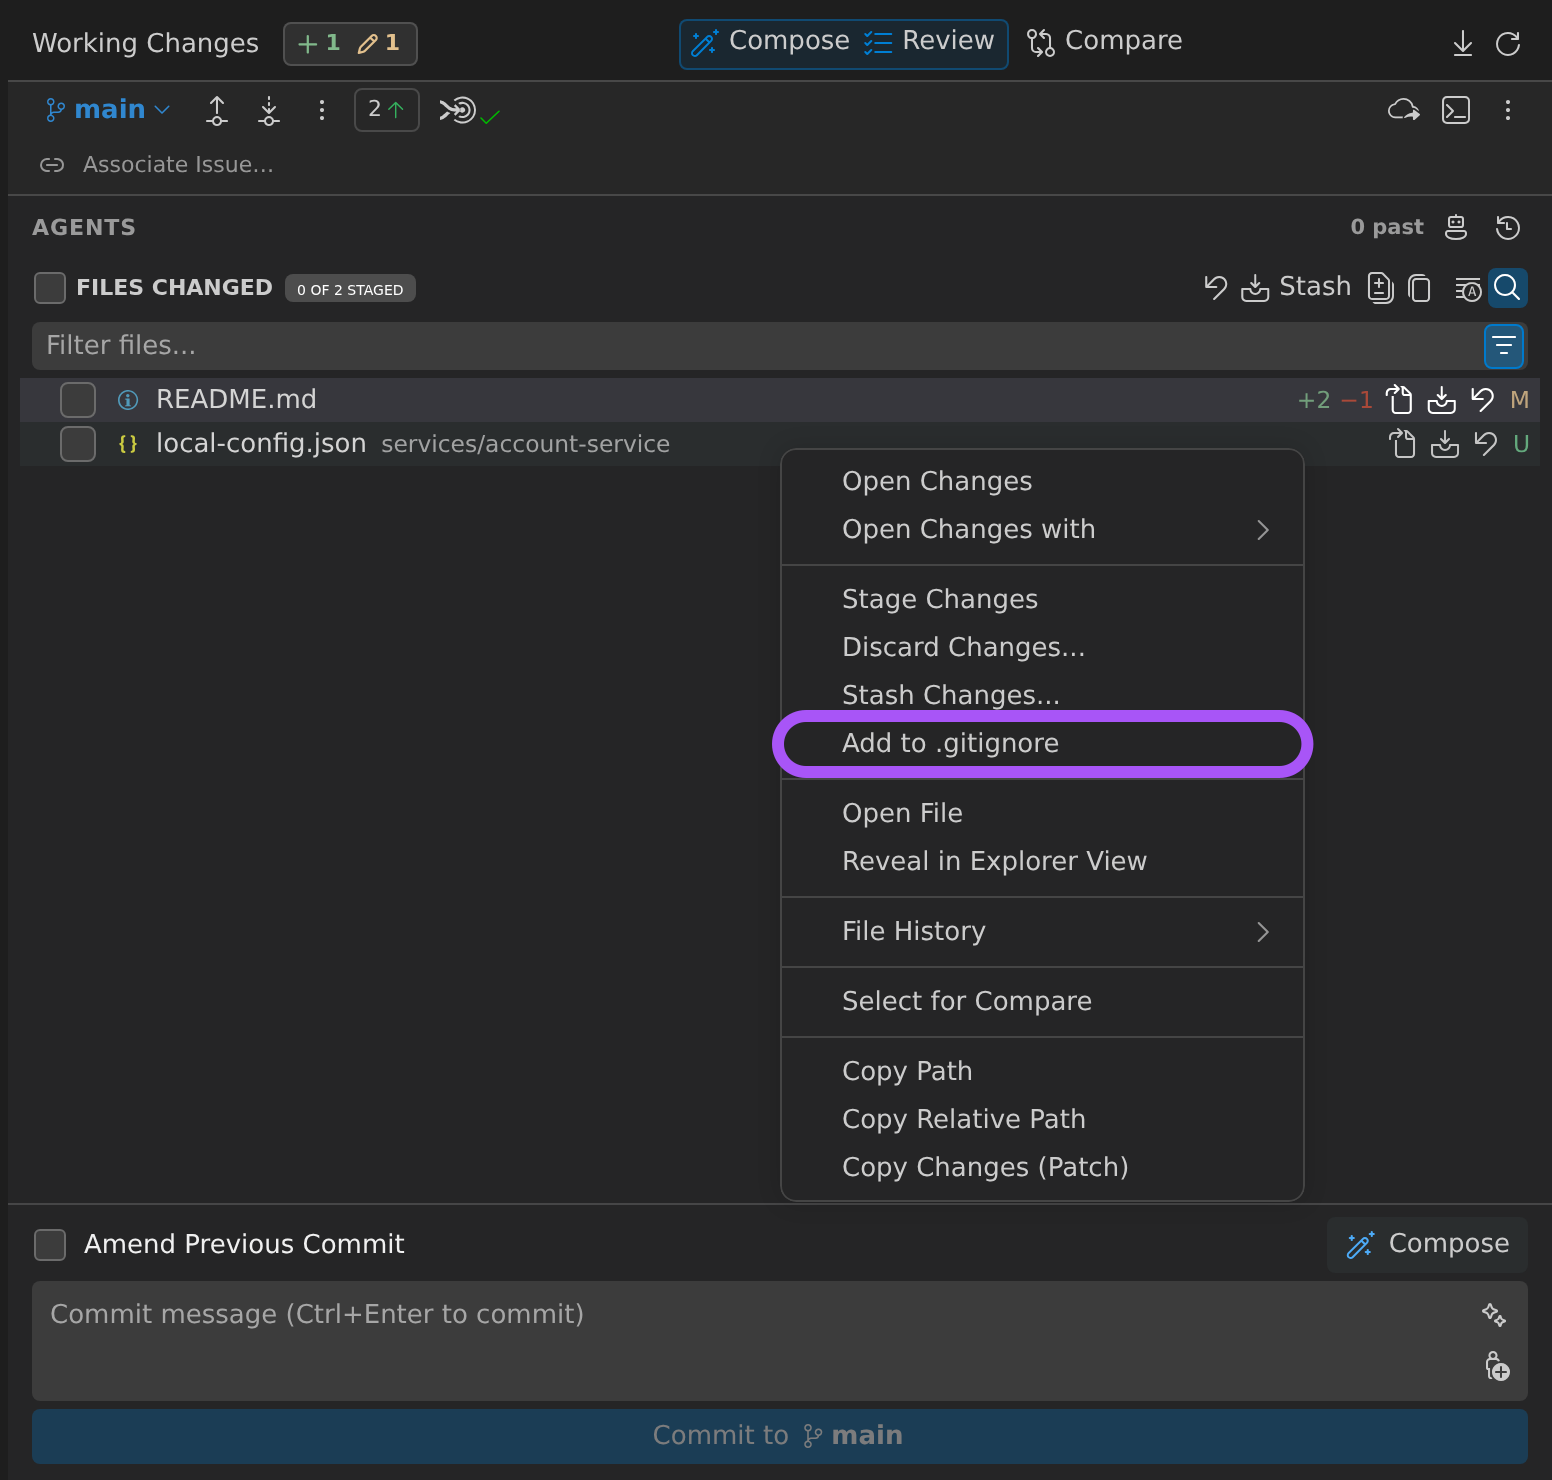
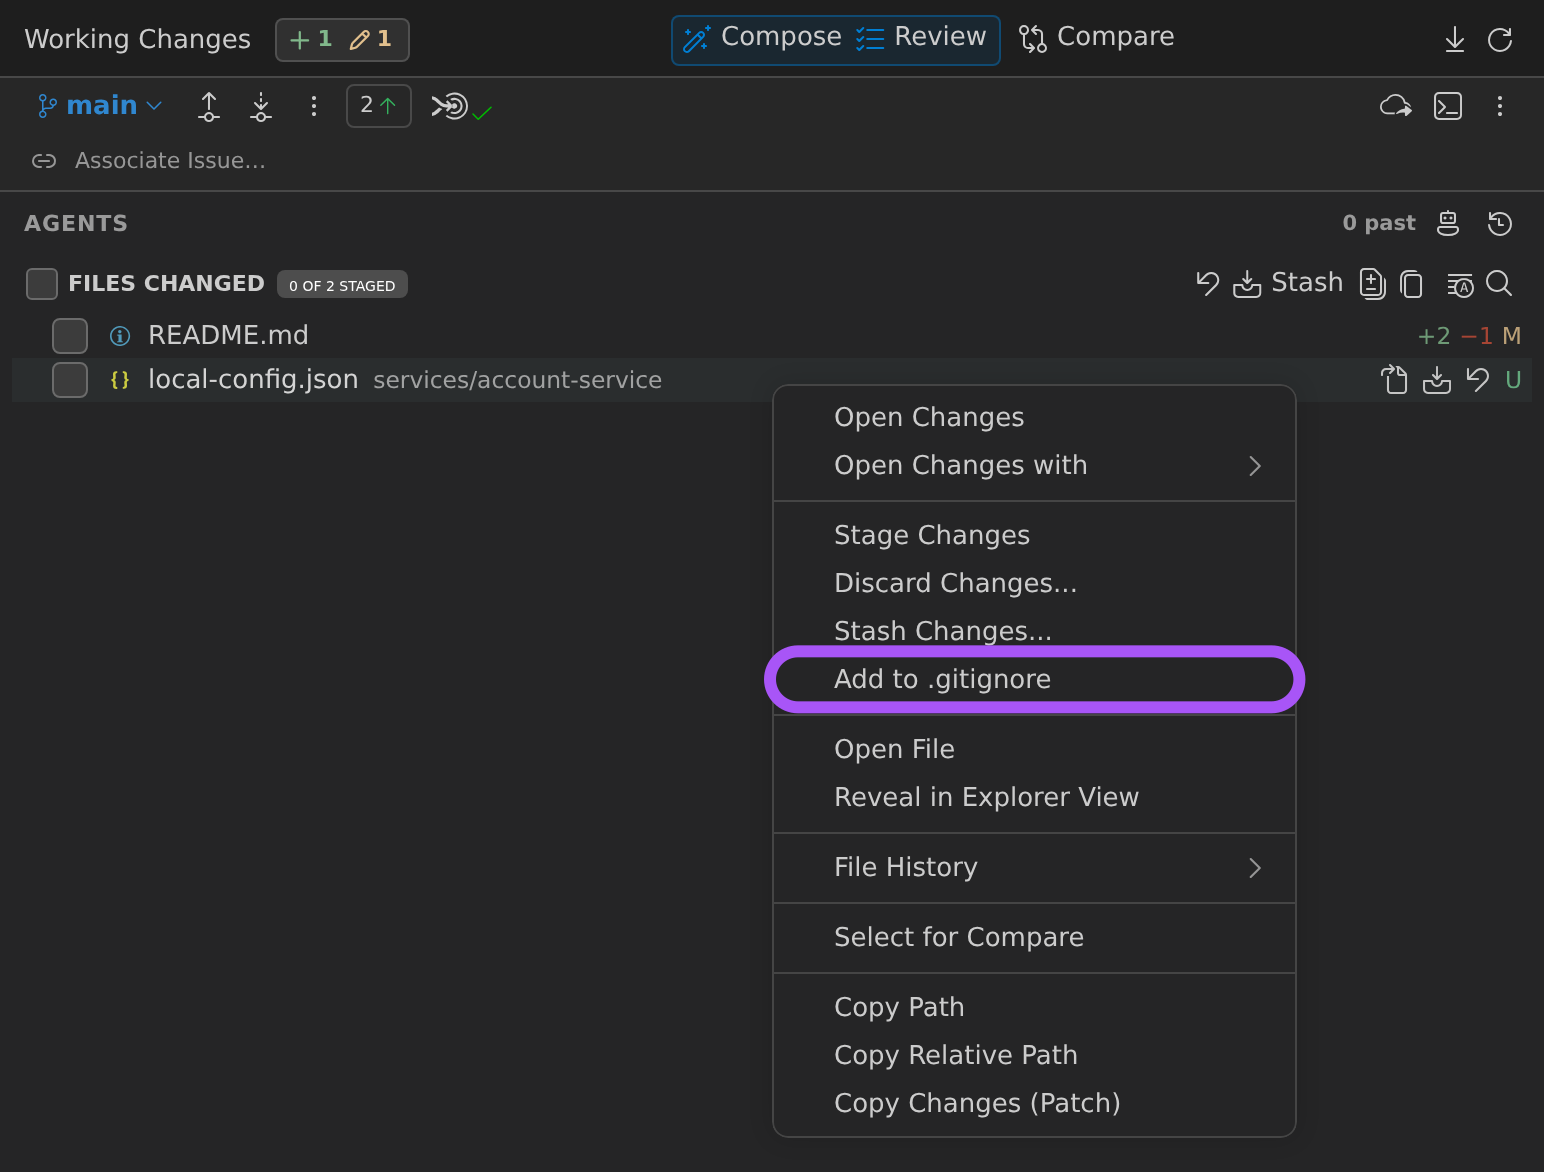
GitLens: Jira connection steps and screenshot updates
- Jira steps (GL-Integrations, gitlens-features): the Cloud Integrations figure sits under step 2, which explains the Connect and Connected/Manage card states; the card is named Jira.
- Cloud Integrations screenshot: settings navigation labels readable; alt lists connected and unconnected providers.
- Add to .gitignore screenshot: only the untracked file is highlighted, the file filter is closed, framed on the details panel.
- Alt text: Send Feedback dialog, past sessions, Agent Kanban, account menu Integrations row.

diff --git a/gitlens/gitlens-features.md b/gitlens/gitlens-features.md
@@ -1440,7 +1440,7 @@ To connect an integration:
 3. Alternatively, select the account button (your avatar and plan) in the Commit Graph header, then select the **Integrations** row (or **Set up integrations** if none are connected) to open the integrations settings in GitLens Settings.
 
 <figure>
-  <img src="/wp-content/uploads/gl-connect-remote-integration-01-v4@2x.png" srcset="/wp-content/uploads/gl-connect-remote-integration-01-v4@2x.png" alt="The Commit Graph header's account menu open with its Integrations row ringed; the row shows the connected providers and opens GitLens Settings > Integrations." class="help-center-img img-bordered">
+  <img src="/wp-content/uploads/gl-connect-remote-integration-01-v4@2x.png" srcset="/wp-content/uploads/gl-connect-remote-integration-01-v4@2x.png" alt="The Commit Graph header's account button with its menu open and the Integrations row ringed, a row of provider icons that opens GitLens Settings > Integrations." class="help-center-img img-bordered">
   <figcaption style="text-align: center; color: #888;">Open your integrations from the Commit Graph account menu</figcaption>
 </figure>
 
@@ -1520,14 +1520,15 @@ The Jira Integration, connected through your GitKraken Account, enables Jira [Au
 To connect the integration:
 
 1. Open the GitLens Settings editor (run _GitLens: Open Settings_ from the Command Palette).
-2. Select **Cloud Integrations** under **Integrations** in the navigation rail.
-3. Choose **Jira Cloud**, and authorize access to your Atlassian Account.
-4. Alternatively, visit your [Integration Settings](https://gitkraken.dev/settings/integrations?source=help_center&product=gitlens) in a browser.
+2. Select **Cloud Integrations** under **Integrations** in the navigation rail. Each provider has a card: a provider you have not connected shows **Connect**, and a connected one shows **Connected** and **Manage**.
 
 <figure>
-  <img src="/wp-content/uploads/gl-cloud-integrations-01-v4@2x.png" alt="GitLens Settings Cloud Integrations page showing provider connection cards for GitHub, GitLab, Azure DevOps, Bitbucket, Jira, and Linear" class="help-center-img img-bordered">
-  <figcaption style="text-align: center; color: #888;">Cloud Integrations category in the GitLens Settings editor</figcaption>
+  <img src="/wp-content/uploads/gl-cloud-integrations-01-v4@2x.png" alt="GitLens Settings open on Cloud Integrations, with GitHub, GitLab, Azure DevOps, Bitbucket, Jira and Linear connected and Connect buttons for GitHub Enterprise, GitLab Self-Hosted, Azure DevOps Server, Bitbucket Data Center and Trello" class="help-center-img img-bordered">
+  <figcaption style="text-align: center; color: #888;">Cloud Integrations in GitLens Settings, shown here with Jira already connected</figcaption>
 </figure>
+
+3. Select **Connect** on the **Jira** card, and authorize access to your Atlassian Account.
+4. Alternatively, visit your [Integration Settings](https://gitkraken.dev/settings/integrations?source=help_center&product=gitlens) in a browser.
 
 You can also connect **Trello** (a Pro integration) from the same **Cloud Integrations** list. Once Trello is connected, branches associated with Trello cards show a Trello badge on their Commit Graph pills. GitLens doesn't create autolinks for Trello cards.
 

diff --git a/gitlens/GL-Integrations.md b/gitlens/GL-Integrations.md
@@ -89,7 +89,7 @@ To connect GitHub or GitLab to GitLens, you'll use your GitKraken account via th
 2. Open the Commit Graph and select the **Account** button (your avatar and plan badge) in its header. In the popover, select the **Integrations** row, or **Set up integrations** if nothing is connected yet, to open **Cloud Integrations** in GitLens Settings.
 
 <figure>
-  <img src="/wp-content/uploads/gl-connect-remote-integration-01-v4@2x.png" srcset="/wp-content/uploads/gl-connect-remote-integration-01-v4@2x.png" alt="The Commit Graph header's account menu open with its Integrations row ringed; the row shows the connected providers and opens GitLens Settings > Integrations." class="help-center-img img-bordered">
+  <img src="/wp-content/uploads/gl-connect-remote-integration-01-v4@2x.png" srcset="/wp-content/uploads/gl-connect-remote-integration-01-v4@2x.png" alt="The Commit Graph header's account button with its menu open and the Integrations row ringed, a row of provider icons that opens GitLens Settings > Integrations." class="help-center-img img-bordered">
   <figcaption style="text-align:center; color:#888">Open your integrations from the Commit Graph account popover</figcaption>
 </figure>
 
@@ -180,15 +180,16 @@ GitLens Pro supports integration with Jira Cloud via your GitKraken Account. Thi
 ### Connect the Jira Integration
 
 1. Open the GitLens Settings editor (run _GitLens: Open Settings_ from the Command Palette).
-2. Select **Cloud Integrations** under **Integrations** in the navigation rail.
+2. Select **Cloud Integrations** under **Integrations** in the navigation rail. Each provider has a card: a provider you have not connected shows **Connect**, and a connected one shows **Connected** and **Manage**.
+
+<figure>
+  <img src="/wp-content/uploads/gl-cloud-integrations-01-v4@2x.png" alt="GitLens Settings open on Cloud Integrations, with GitHub, GitLab, Azure DevOps, Bitbucket, Jira and Linear connected and Connect buttons for GitHub Enterprise, GitLab Self-Hosted, Azure DevOps Server, Bitbucket Data Center and Trello" class="help-center-img img-bordered">
+  <figcaption style="text-align:center; color:#888">Cloud Integrations in GitLens Settings, shown here with Jira already connected</figcaption>
+</figure>
+
 3. Select **Connect** on the **Jira** card and follow the prompts to connect.
 4. Allow GitKraken access to your Atlassian Account.
 
 Linear and Trello connect the same way from the **Cloud Integrations** category, and both require a Pro plan or higher. After you connect Trello, branches associated with a Trello card show a Trello badge in the Commit Graph. GitLens does not autolink Trello cards or list them in Start Work or Launchpad.
 
 You can also configure this via the [Integration Settings](https://gitkraken.dev/settings/integrations?source=help_center&product=gitlens) in a browser.
-
-<figure>
-  <img src="/wp-content/uploads/gl-cloud-integrations-01-v4@2x.png" alt="GitLens Settings Cloud Integrations page showing provider connection cards for GitHub, GitLab, Azure DevOps, Bitbucket, Jira, and Linear" class="help-center-img img-bordered">
-  <figcaption style="text-align:center; color:#888">Cloud Integrations category in the GitLens Settings editor</figcaption>
-</figure>

diff --git a/gitlens/GL-Agents.md b/gitlens/GL-Agents.md
@@ -106,7 +106,7 @@ The session is connected but not currently performing actions.
 The session has ended. Past sessions stay listed, dimmed, until you archive them or until they are removed after 30 days. To list past sessions in the Agent Sessions panel, turn on **Show Past Sessions** in the panel toolbar.
 
 <figure>
-  <img src="/wp-content/uploads/gl-agents-panel-past-sessions-01-v2@2x.png" class="help-center-img img-bordered" alt="The Commit Graph sidebar on its Agents panel with the Show Past Sessions toggle ringed, listing three sessions under the main worktree, each with its agent's logomark and phase mark: a working Claude Code session running an edit, an idle OpenCode session and a dimmed past Codex session." />
+  <img src="/wp-content/uploads/gl-agents-panel-past-sessions-01-v2@2x.png" class="help-center-img img-bordered" alt="The Commit Graph sidebar on its Agents panel with the Show Past Sessions toggle ringed, listing three sessions under the main worktree: a working Claude Code session running an edit, an idle OpenCode session and a dimmed past Codex session." />
 </figure>
 
 ### Resume a Past Session

diff --git a/gitlens/GL-Commit-Graph.md b/gitlens/GL-Commit-Graph.md
@@ -75,7 +75,7 @@ You can send feedback to the GitKraken team without leaving the Commit Graph. Se
 When you send a bug report, GitLens also opens a GitHub issue prefilled with your message so you can add more details. After you send a feature request, you can select **File on GitHub** to file it as a GitHub issue as well.
 
 <figure>
-  <img src="/wp-content/uploads/gl-graph-send-feedback-dialog-01-v2@2x.png" class="help-center-img img-bordered" alt="The Send Feedback dialog over the Commit Graph with its General, Bug and Feature choices, an empty Message box, links to the Help Center, Discussions and Issues, and the Cancel and Send Feedback buttons." />
+  <img src="/wp-content/uploads/gl-graph-send-feedback-dialog-01-v2@2x.png" class="help-center-img img-bordered" alt="The Commit Graph's Send Feedback dialog with its General, Bug and Feature choices, an empty Message box, links to the Help Center, Discussions and Issues, and the Cancel and Send Feedback buttons." />
   <figcaption style="text-align: center; color: #888">The Send Feedback dialog</figcaption>
 </figure>
 

diff --git a/gitlens/home-view.md b/gitlens/home-view.md
@@ -80,7 +80,7 @@ Agent Kanban provides a visual way to understand parallel agent work at a glance
 From the board, you can inspect agent work and jump into the associated session and working changes.
 
 <figure>
-  <img src="/wp-content/uploads/gl-agent-kanban-01-v2@2x.png" alt="The Agent Kanban board in the Commit Graph with four sessions sorted into Needs Input (a permission ask with Allow and Deny), Working, Idle and Inactive columns, each card showing its title, status, worktree and latest activity." class="help-center-img img-bordered">
+  <img src="/wp-content/uploads/gl-agent-kanban-01-v2@2x.png" alt="The Agent Kanban board with four sessions sorted into Needs Input (a permission ask with Allow and Deny), Working, Idle and Inactive columns, each card showing its title, status, worktree and latest activity." class="help-center-img img-bordered">
 </figure>
 
 ### Resume Past Sessions
